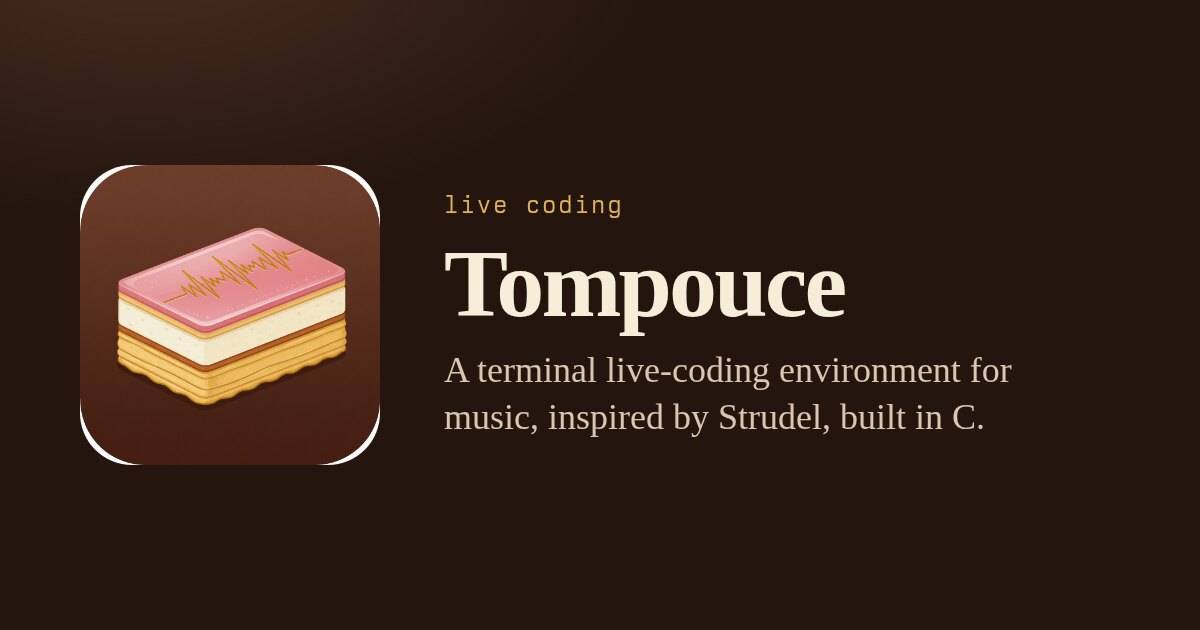
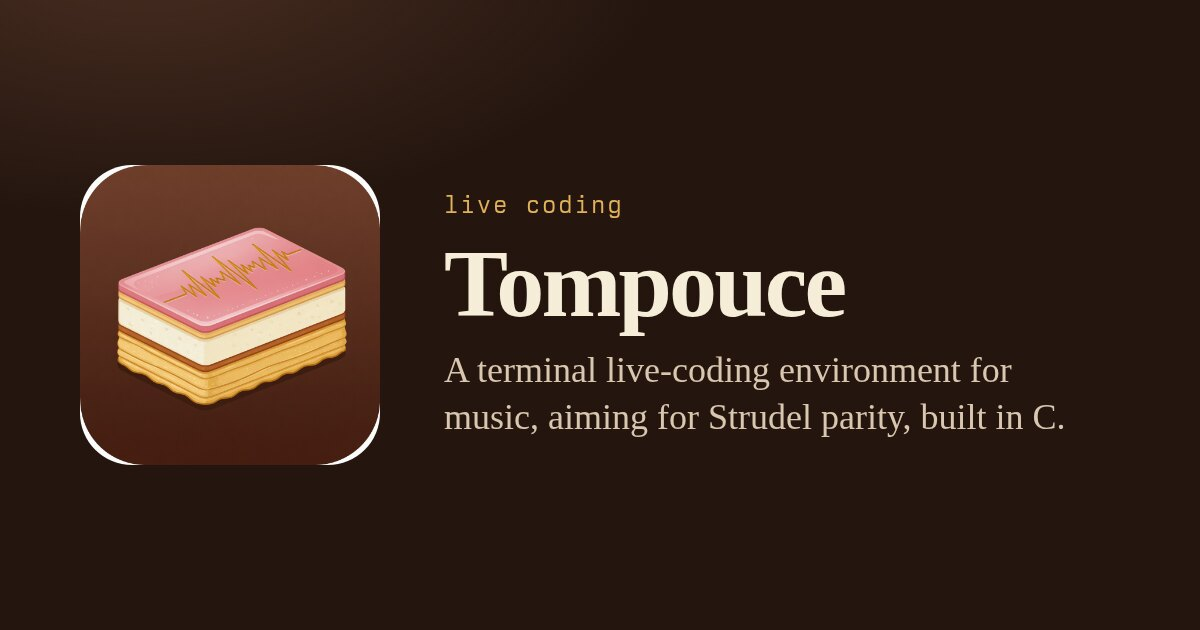
State the aim of Strudel parity, including the REPL keys
Ctrl+Enter and Alt+Enter evaluate and start. Ctrl+. and Alt+. stop. Say so in the README, handbook and site, and keep the remaining native-audio differences explicit.

Changed region(s): [[0.4625, 0.6333, 0.8942, 0.6937]]

diff --git a/site/index.html b/site/index.html
@@ -4,22 +4,22 @@
   <meta charset="utf-8">
   <meta name="viewport" content="width=device-width, initial-scale=1">
   <title>Tompouce</title>
-  <meta name="description" content="A terminal live-coding environment for music, inspired by Strudel, built in C.">
+  <meta name="description" content="A terminal live-coding environment for music, aiming for Strudel parity, built in C.">
   <link rel="canonical" href="https://ekollof.github.io/tompouce/">
   <meta property="og:title" content="Tompouce">
-  <meta property="og:description" content="A terminal live-coding environment for music, inspired by Strudel, built in C.">
+  <meta property="og:description" content="A terminal live-coding environment for music, aiming for Strudel parity, built in C.">
   <meta property="og:type" content="website">
   <meta property="og:url" content="https://ekollof.github.io/tompouce/">
   <meta property="og:image" content="https://ekollof.github.io/tompouce/og.jpg">
   <meta property="og:image:type" content="image/jpeg">
   <meta property="og:image:width" content="1200">
   <meta property="og:image:height" content="630">
-  <meta property="og:image:alt" content="Tompouce logo beside the title and the line: a terminal live-coding environment for music, inspired by Strudel, built in C.">
+  <meta property="og:image:alt" content="Tompouce logo beside the title and the line: a terminal live-coding environment for music, aiming for Strudel parity, built in C.">
   <meta name="twitter:card" content="summary_large_image">
   <meta name="twitter:title" content="Tompouce">
-  <meta name="twitter:description" content="A terminal live-coding environment for music, inspired by Strudel, built in C.">
+  <meta name="twitter:description" content="A terminal live-coding environment for music, aiming for Strudel parity, built in C.">
   <meta name="twitter:image" content="https://ekollof.github.io/tompouce/og.jpg">
-  <meta name="twitter:image:alt" content="Tompouce logo beside the title and the line: a terminal live-coding environment for music, inspired by Strudel, built in C.">
+  <meta name="twitter:image:alt" content="Tompouce logo beside the title and the line: a terminal live-coding environment for music, aiming for Strudel parity, built in C.">
   <link rel="icon" href="logo.jpg" type="image/jpeg">
   <link rel="stylesheet" href="styles.css">
 </head>
@@ -37,7 +37,8 @@
       <img class="logo" src="logo.jpg" width="168" height="168" alt="Tompouce logo: a layered pastry with a waveform in the icing">
       <div>
         <h1>Tompouce</h1>
-        <p class="lede">A terminal live-coding environment for music, inspired by Strudel, built in C.</p>
+        <p class="lede">A terminal live-coding environment for music, aiming for Strudel parity, built in C.</p>
+        <p class="keys">The same patterns, and the web REPL's keys: Ctrl+Enter or Alt+Enter evaluates and starts. Ctrl+. or Alt+. stops.</p>
         <p class="links">
           <a class="button" href="https://github.com/ekollof/tompouce">Source</a>
           <a class="button" href="https://github.com/ekollof/tompouce/wiki">Documentation</a>
@@ -63,7 +64,7 @@ cd tompouce
       </article>
       <article>
         <h2>First sound</h2>
-        <p>Type this in the editor. Press F5 to evaluate. If transport is stopped, press Ctrl+P.</p>
+        <p>Type this in the editor. Press Ctrl+Enter, Alt+Enter, or F5 to evaluate and start. Ctrl+. or Alt+. stops. Ctrl+P toggles play.</p>
         <pre><code><span class="fn">setcpm</span>(108 / 4)
 <span class="fn">note</span>(<span class="str">"c4 e4 g4 c5"</span>).<span class="fn">s</span>(<span class="str">'triangle'</span>).<span class="fn">gain</span>(0.4)</code></pre>
         <p class="note">Press F2 and enter <code>/tutor</code> for 22 lessons. F1 is the keybinding reference.</p>
@@ -73,7 +74,7 @@ cd tompouce
     <section class="points">
       <h2>In the terminal</h2>
       <ul>
-        <li>Strudel patterns run in QuickJS. Audio is rendered in C.</li>
+        <li>Strudel parity is the target. Patterns run in QuickJS, and the REPL keys match the web editor. Audio is rendered in C.</li>
         <li>Write, evaluate and listen in one keyboard-driven session, with vi editing.</li>
         <li>Output goes through PipeWire, PulseAudio, JACK or ALSA.</li>
         <li>A Chromium companion is optional. The engine keeps running natively.</li>

diff --git a/site/styles.css b/site/styles.css
@@ -86,6 +86,12 @@ h1 {
   font-size: 1.15rem;
 }
 
+.keys {
+  margin: 0.7rem 0 0;
+  max-width: 36rem;
+  color: var(--cream);
+}
+
 .links {
   display: flex;
   flex-wrap: wrap;

diff --git a/README.md b/README.md
@@ -7,7 +7,7 @@
 Source: [ekollof/tompouce](https://github.com/ekollof/tompouce).
 Site: [ekollof.github.io/tompouce](https://ekollof.github.io/tompouce/).
 
-A terminal live-coding environment for music, inspired by Strudel, built in C.
+A terminal live-coding environment for music, aiming for parity with Strudel, built in C.
 
 New to Strudel? [Strudeltutor](#learn-with-strudeltutor) teaches live coding
 through 22 interactive lessons inspired by vimtutor. Press **F2**, enter
@@ -20,6 +20,8 @@ through 22 interactive lessons inspired by vimtutor. Press **F2**, enter
 Writing Strudel shouldn't require running a full browser or Electron app.
 Tompouce embeds Strudel's JavaScript runtime in QuickJS and generates audio in C,
 bringing the editor, sound engine and live visualizations into your terminal.
+The aim is parity with the web REPL: the same patterns, and the same performance
+keys. Native audio does not reproduce every browser waveform or parameter.
 
 - **A small memory footprint.** More RAM stays available for samples, effects
   and other music tools. Effect, room and orbit buffers are allocated only when
@@ -28,7 +30,9 @@ bringing the editor, sound engine and live visualizations into your terminal.
   binary reserves 23 MiB of static storage. Usage varies with the composition
   and loaded samples.
 - **A keyboard-driven workflow.** Write, evaluate, browse sounds and watch patterns
-  in one place, with vi editing and your terminal's colors.
+  in one place, with vi editing and your terminal's colors. Ctrl+Enter or Alt+Enter
+  evaluates and starts, and Ctrl+. or Alt+. stops, matching the Strudel REPL.
+  F5 and Ctrl+P do those same jobs.
 - **Local, offline music making.** Installed sound banks work without a network
   connection. Downloaded or imported samples stay available locally.
 - **Native Linux audio.** Connect through PipeWire, PulseAudio, JACK or ALSA,
@@ -348,7 +352,10 @@ its text display.
 Keys:
 - `Tab` — complete a word in insert mode; indent two spaces in leading whitespace or a selection. `Shift+Tab` cycles completion backward, otherwise unindents.
 - Type code in the editor (left pane).
-- `F5` — evaluate code (`Ctrl+R` also evaluates outside vi normal mode)
+- `F5` — evaluate code and start playback (`Ctrl+R` also does this outside vi normal mode)
+- `Ctrl+Enter` / `Alt+Enter` — evaluate and start, matching the Strudel REPL. Plain Enter still inserts a newline
+- `Ctrl+.` / `Alt+.` — stop playback, matching the Strudel REPL. An already stopped transport stays stopped
+- `Alt+W` / `Alt+Q` — next / previous `$` label, wrapping, as in the web editor
 - `Ctrl+P` — play / stop. Stop ends new scheduling; submitted notes and tails finish. Play restarts at cycle zero.
 - `F1` — toggle Tompouce keybinding cheatsheet over the console pane (`PgUp`/`PgDn` scroll)
 - `Ctrl+L` — hide / restore the console; the editor expands when no other right-hand panels are open.

diff --git a/docs/wiki/Learn-Strudel.md b/docs/wiki/Learn-Strudel.md
@@ -32,7 +32,7 @@ The [Strudel browser editor](https://strudel.cc/) is useful for following those 
 
 ## Bring what you learn into Tompouce
 
-Tompouce pins Strudel 1.2.6 and uses a native audio backend. Current upstream docs can describe newer behavior, browser-only devices, visuals or effects. Use the project [native audio reference](https://github.com/ekollof/tompouce/blob/master/docs/javascript.md) to check support; runtime warnings identify unavailable controls. The web's additional GM soundfont variants (beyond the default per name) and advanced wavetable morph/warp processing differ from the browser.
+Tompouce aims to play the patterns from these pages. It pins Strudel 1.2.6 and uses a native audio backend. Ctrl+Enter, Alt+Enter, Ctrl+. and Alt+. work as they do in the web REPL, so a pattern learned in the browser can be evaluated with the same keys. Current upstream docs can describe newer behavior, browser-only devices, visuals or effects. Use the project [native audio reference](https://github.com/ekollof/tompouce/blob/master/docs/javascript.md) to check support; runtime warnings identify unavailable controls. The web's additional GM soundfont variants (beyond the default per name) and advanced wavetable morph/warp processing differ from the browser.
 
 Begin with a built-in synth, then change one thing at a time. Try replacing spaces with brackets, moving a melody through a scale, layering a bass, patterning a filter and adding one view. Compare predictions with what you hear. Keep each experiment in a separate song buffer and save a working version before extending it.
 

diff --git a/docs/wiki/Home.md b/docs/wiki/Home.md
@@ -1,6 +1,8 @@
 # Tompouce documentation
 
-Tompouce is a terminal live-coding environment for music. It embeds Strudel 1.2.6 in QuickJS, schedules patterns locally, and renders audio in C. The Notcurses editor, native audio engine, optional Chromium companion and MCP interface work with the same session.
+Tompouce is a terminal live-coding environment for music. Its aim is parity with the Strudel web REPL: it embeds Strudel 1.2.6 in QuickJS, schedules patterns locally, and renders audio in C. The Notcurses editor, native audio engine, optional Chromium companion and MCP interface work with the same session.
+
+The performance keys match the web editor. Ctrl+Enter or Alt+Enter evaluates and starts playback. Ctrl+. or Alt+. stops. F5 and Ctrl+P do those same jobs. Alt+W and Alt+Q move between `$` labels.
 
 Start with [Getting started](https://github.com/ekollof/tompouce/wiki/Getting-Started), then try the bundled 22-lesson Strudeltutor. A simple synth pattern works without sample banks or a browser:
 

diff --git a/docs/wiki/Live-Coding-and-Strudeltutor.md b/docs/wiki/Live-Coding-and-Strudeltutor.md
@@ -8,7 +8,10 @@
 | F2 | Prompt; enter slash commands such as `/tutor` or `/save` |
 | F3 | Toggle vi editing |
 | F4 | Engine and editor diagnostics |
-| F5 | Evaluate source and commit it to the current song buffer |
+| F5 | Evaluate source, commit it to the current song buffer, and start playback |
+| Ctrl+Enter / Alt+Enter | Evaluate and start, matching the Strudel REPL. Plain Enter still inserts a newline |
+| Ctrl+. / Alt+. | Stop playback, matching the Strudel REPL |
+| Alt+W / Alt+Q | Next / previous `$` label, wrapping, as in the web editor |
 | Ctrl+P | Play/stop |
 | Alt+Up / Alt+Down | Raise/lower output volume by 1% from any pane |
 | Tab / Ctrl+Space | Context-aware completion; leading whitespace/selection retains indentation |

diff --git a/docs/wiki/Getting-Started.md b/docs/wiki/Getting-Started.md
@@ -37,7 +37,7 @@ setcpm(108 / 4)
 note("c4 e4 g4 c5").s('triangle').gain(0.4)
 ```
 
-Press F5. If transport is stopped, press Ctrl+P. Change a note, press F5 again, and listen. F1 opens the keybinding reference; Escape returns focus from the right pane to the editor.
+Press Ctrl+Enter or Alt+Enter, the same keys as the Strudel REPL, or press F5. That evaluates the pattern and starts playback. Ctrl+. or Alt+. stops. Ctrl+P toggles play and stop. Change a note and evaluate again. F1 opens the keybinding reference; Escape returns focus from the right pane to the editor.
 
 For guided practice, press F2, enter `/tutor`, then Enter. See [Live coding and Strudeltutor](https://github.com/ekollof/tompouce/wiki/Live-Coding-and-Strudeltutor).
 
